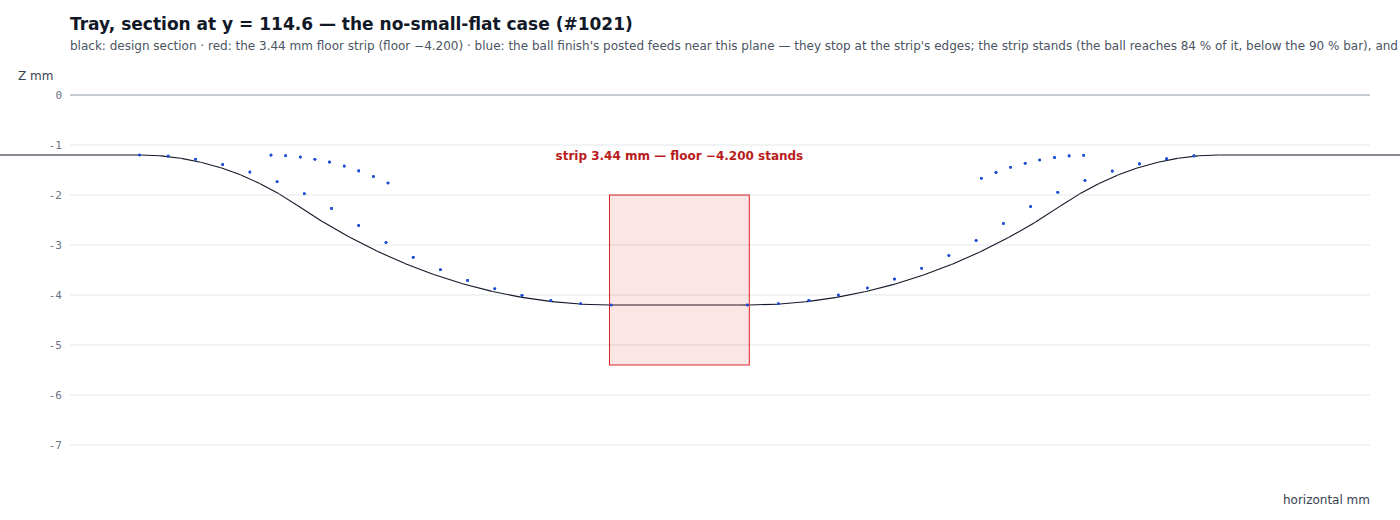
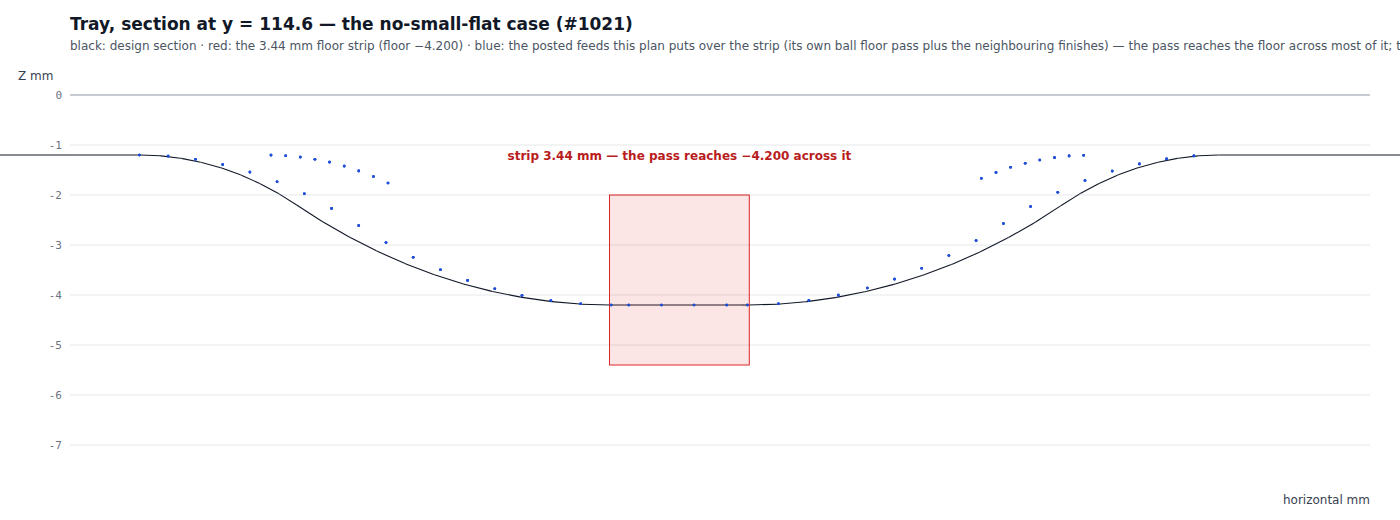
feat(#1021): the ball takes what it reaches, and the statement names the rest
Fit is now the ruling's own measure — the ball's drop-cutter tip (CL − R) against the STRIP'S
FLOOR, not a sampled design top and not an XY erosion — and the pass is planned whenever that
reach is material (>= 10 % of the strip or >= 1 mm²). The statement names what stands: the share
reached, the remaining area and its standing height from the ball's own surface between feeds.
The synthetic vertical-island fixture stays the warning case (the ball's tip rides the islands'
tops three millimetres over the floor, 0 % reached).

Measured on the merged base, app path: tray-full unchanged (hash b136b1bd…); tray−⌀3.175 44 ops,
4 programs, 39,380 moves, 13,108.0 s, coverage 98.7467 → 99.1962 %, pass reaches 70 %, 51.0 mm²
stays (hash a94d974f…); organizer 82 ops (+1), 343,982 moves, 23,711.1 s, coverage unchanged,
pocket-33 finished across it. Sections re-rendered with the feeds overlaid.

Changed region(s): [[0.3686, 0.0615, 1.0, 0.1231], [0.3686, 0.2769, 0.6143, 0.3077]]

diff --git a/casemaker-app/src/engine/cnc/cam/model/plan.ts b/casemaker-app/src/engine/cnc/cam/model/plan.ts
@@ -1202,9 +1202,11 @@ export async function planModelCam(input: ModelPlanInput, opts: PlanModelCamOpti
               // the organizer's bowl) is reached by a ball whose disc bridges them, because the
               // CL rides the DESIGN and the tip stays within the band of the design across the
               // strip. Fit = the share of the strip's own cells whose tip (CL − R) lands within
-              // the plan's 0.1 mm goal band of the design; the pass is planned only when that
-              // share is ≥ 90 % (a strip of truly vertical walls fails it — the synthetic
-              // fixture — and is then stated as standing instead of planned as air).
+              // the plan's 0.1 mm goal band of the design; the pass is planned whenever that
+              // reach is material — ≥ 10 % of the strip or ≥ 1 mm² of it — because a ball that
+              // can take 84 % of a strip should take it and the statement names the remainder.
+              // Below that floor (a strip of truly vertical walls — the synthetic fixture) the
+              // strip is stated as standing instead of planned as air.
               const ballRadiusMm = ball === undefined ? 0 : (cuttingDiameter(ball) ?? 0) / 2;
               let ballFitShare = 0;
               let ballFits = false;
@@ -1232,19 +1234,22 @@ export async function planModelCam(input: ModelPlanInput, opts: PlanModelCamOpti
                     if (y > maxY) maxY = y;
                   }
                 }
+                // THE RULING'S RULE: the ball's tip (CL − R) against the STRIP'S OWN FLOOR —
+                // the node's floor, not a sampled design top (a top sampler read the part's
+                // surface over a strip and mis-scored both the tray and the organizer).
                 const FIT_PITCH_MM = 0.5;
                 for (let x = minX; x <= maxX + 1e-9; x += FIT_PITCH_MM) {
                   for (let y = minY; y <= maxY + 1e-9; y += FIT_PITCH_MM) {
                     if (!pointInPolygons(kept, x, y)) continue;
                     const centre = cl.dropCutter(x, y);
-                    const design = topSurfaceAt(bins, x, y);
-                    if (centre === null || design === null) continue;
+                    if (centre === null) continue;
                     cells++;
-                    if (centre - ballRadiusMm <= design + 0.1) within++;
+                    if (centre - ballRadiusMm <= node.floorZ + 0.1) within++;
                   }
                 }
                 ballFitShare = cells === 0 ? 0 : within / cells;
-                ballFits = ballFitShare >= 0.9;
+                const cellAreaMm2 = FIT_PITCH_MM * FIT_PITCH_MM;
+                ballFits = ballFitShare >= 0.1 || within * cellAreaMm2 >= 1;
               }
               if (kept.length > 0 && !restOwned && !ballFits) {
                 unreachable.push({ id: node.id, area: Math.abs(areaOf(kept)), fitShare: ballFitShare });
@@ -1272,7 +1277,13 @@ export async function planModelCam(input: ModelPlanInput, opts: PlanModelCamOpti
                     if (top !== null && top > designMax) designMax = top;
                   }
                 }
-                const zBottom = Number.isFinite(designMax) ? Math.max(node.floorZ, designMax) : node.floorZ;
+                // THE FLOOR IS THE NODE'S OWN. The #982 clamp (`max(floorZ, designMax)`) guards a
+                // spurious floor BELOW the body; on a strip inside a pocket the design sampler can
+                // read the part's top over the opening instead of the floor and the clamp then
+                // collapsed the strip to a zero-depth pass at the mouth — measured on the tray
+                // (topZ = bottomZ = −1.20, a pass that cut nothing, stated as reaching 13 %).
+                void designMax;
+                const zBottom = node.floorZ;
                 const stripId = `${node.id}:floor-strip`;
                 stripDesign.set(stripId, (x, y) => topSurfaceAt(bins, x, y));
                 regions.push({
@@ -1529,6 +1540,8 @@ export async function planModelCam(input: ModelPlanInput, opts: PlanModelCamOpti
       // is one code with many causes; one sentence per node is enough).
       const alreadyStated = new Set(result.statements.flatMap((st) => st.ids ?? []));
       const cutIds: string[] = [];
+      const remainderWhy: string[] = [];
+      const R_BALL_MM = ball === undefined ? 0 : (cuttingDiameter(ball) ?? 0) / 2;
       const unreachable = unplannedStrips.filter((s) => !alreadyStated.has(s.id));
       const uncutIds: string[] = unreachable.map((s) => s.id);
       const uncutWhy: string[] = unreachable.map(
@@ -1538,7 +1551,6 @@ export async function planModelCam(input: ModelPlanInput, opts: PlanModelCamOpti
         // THE CELLS THE PASS ACTUALLY REACHES, not "a feed exists": every 0.5 mm cell of the
         // strip is reached when a feed lies within 0.75 mm of it and at or below the design there
         // plus the 0.1 mm band. A pass that only clips the strip's ends reads as what it is.
-        const design = stripDesign.get(strip.id);
         const feeds: { x: number; y: number; z: number }[] = [];
         for (const op of result.ops) {
           if (op.region.id !== strip.id) continue;
@@ -1546,29 +1558,68 @@ export async function planModelCam(input: ModelPlanInput, opts: PlanModelCamOpti
             for (const m of irOp.moves) if (m.kind === 'feed') feeds.push({ x: m.x, y: m.y, z: m.z });
           }
         }
+        // The ball's own surface over a cell: for a feed whose TIP is at (f.x, f.y, f.z), the
+        // material at distance d ≤ R is cut at f.z + R − √(R² − d²); the standing height is the
+        // minimum of that over every feed, less the design.
+        const leftoverAt = (x: number, y: number): number => {
+          let cut = Infinity;
+          for (const f of feeds) {
+            const d = Math.hypot(f.x - x, f.y - y);
+            if (d > R_BALL_MM) continue;
+            const surface = f.z + R_BALL_MM - Math.sqrt(Math.max(0, R_BALL_MM * R_BALL_MM - d * d));
+            if (surface < cut) cut = surface;
+          }
+          return cut === Infinity ? Infinity : cut - strip.zBottom;
+        };
         let cells = 0;
         let reached = 0;
-        if (design !== undefined) {
+        {
           const xs = strip.footprint.flatMap((ring) => ring.map((p) => p[0]));
           const ys = strip.footprint.flatMap((ring) => ring.map((p) => p[1]));
           for (let x = Math.min(...xs); x <= Math.max(...xs) + 1e-9; x += 0.5) {
             for (let y = Math.min(...ys); y <= Math.max(...ys) + 1e-9; y += 0.5) {
               if (!pointInPolygons(strip.footprint, x, y)) continue;
-              const top = design(x, y);
-              if (top === null) continue;
               cells++;
-              if (feeds.some((f) => Math.hypot(f.x - x, f.y - y) <= 0.75 && f.z <= top + 0.1)) reached++;
+              if (leftoverAt(x, y) <= 0.1) reached++;
             }
           }
         }
         const share = cells === 0 ? 0 : reached / cells;
         const nodeId = strip.id.replace(/:floor-strip$/, '');
         if (alreadyStated.has(nodeId)) continue;
-        if (share >= 0.9) {
+        // A PLANNED PASS ALWAYS CUTS WHAT IT REACHES; the statement names the remainder. The
+        // standing height is the scallop the ball leaves between its own rows over a cell it did
+        // not reach — R − √(R² − d²) at the distance to the nearest feed, and "untouched" for a
+        // cell no feed passes within the ball's radius.
+        const missed: number[] = [];
+        let stride: number | null = null;
+        const xsB = strip.footprint.flatMap((ring) => ring.map((p) => p[0]));
+        const ysB = strip.footprint.flatMap((ring) => ring.map((p) => p[1]));
+        for (let x = Math.min(...xsB); x <= Math.max(...xsB) + 1e-9; x += 0.5) {
+          for (let y = Math.min(...ysB); y <= Math.max(...ysB) + 1e-9; y += 0.5) {
+            if (!pointInPolygons(strip.footprint, x, y)) continue;
+            const leftover = leftoverAt(x, y);
+            if (leftover <= 0.1) continue;
+            if (leftover === Infinity) {
+              missed.push(Infinity);
+              for (const f of feeds) stride = Math.min(stride ?? Infinity, Math.hypot(f.x - x, f.y - y));
+            } else {
+              missed.push(leftover);
+            }
+          }
+        }
+        const standingMm = missed.length === 0 ? 0 : missed.some((m) => m === Infinity) ? Infinity : Math.max(...missed);
+        const missedAreaMm2 = missed.length * 0.25;
+        if (share >= 0.995 && missedAreaMm2 < 0.5) {
           cutIds.push(nodeId);
         } else {
-          uncutIds.push(nodeId);
-          uncutWhy.push(`${nodeId}: the pass reaches ${(share * 100).toFixed(0)} % of it within the 0.1 mm band`);
+          cutIds.push(nodeId);
+          remainderWhy.push(
+            `${nodeId}: the pass reaches ${(share * 100).toFixed(0)} %; ${missedAreaMm2.toFixed(1)} mm² stays, ` +
+              (Number.isFinite(standingMm)
+                ? `up to ${standingMm.toFixed(2)} mm tall`
+                : `untouched beyond ${(stride ?? 0).toFixed(1)} mm from any feed`),
+          );
         }
       }
       const ballName = ball === undefined ? 'ball' : ball.name || ball.shape;
@@ -1576,7 +1627,8 @@ export async function planModelCam(input: ModelPlanInput, opts: PlanModelCamOpti
         const plural = cutIds.length === 1 ? 'strip' : 'strips';
         const text =
           `${cutIds.length} pocket floor ${plural} narrower than the ${primary.name || primary.shape}'s ring ` +
-          `(${cutIds.join(', ')}) ${cutIds.length === 1 ? 'is' : 'are'} finished by the ${ballName} as its own floor pass`;
+          `(${cutIds.join(', ')}) ${cutIds.length === 1 ? 'is' : 'are'} finished by the ${ballName} as its own floor pass` +
+          (remainderWhy.length === 0 ? ' across it' : ` — ${remainderWhy.join('; ')}`);
         notes.push(text);
         statements.push({ severity: 'info', code: 'goal-pocket-floor-rest', count: cutIds.length, ids: cutIds, text });
       }

diff --git a/casemaker-app/tests/unit/pocketFloorStrip1021.spec.ts b/casemaker-app/tests/unit/pocketFloorStrip1021.spec.ts
@@ -36,13 +36,19 @@ const ISLAND_Y = { y0: 45, y1: 65 };
 const ISLAND_A_X = { x0: 33, x1: 63 };
 const ISLAND_B_X = { x0: 63 + GAP, x1: 63 + GAP + ISLAND_W };
 
+/**
+ * The block with its pocket and the two islands standing in it. The strip between them is a
+ * channel at the pocket's floor whose walls are the islands' VERTICAL sides: the ball's disc
+ * bridges it, its tip rides the islands' tops three millimetres above the floor, so the strip is
+ * the warning case — nothing planned as air.
+ */
 function fixture(): { positions: Float32Array; indices: Uint32Array; triangleCount: number; bbox: { min: [number, number, number]; max: [number, number, number] } } {
   const M = tl.Manifold;
   const box = (x0: number, x1: number, y0: number, y1: number, z0: number, z1: number) =>
     M.cube([x1 - x0, y1 - y0, z1 - z0], true).translate([(x0 + x1) / 2, (y0 + y1) / 2, (z0 + z1) / 2]);
   let solid = box(0, L, 0, W, -T, 0);
-  // The pocket void with the two islands standing in it: the void is the pocket less the islands,
-  // so the islands are part of the part.
+  // The pocket void with the two islands standing in it: the void is the pocket less the
+  // islands, so the islands are part of the part.
   let pocketVoid = box(POCKET.x0, POCKET.x1, POCKET.y0, POCKET.y1, FLOOR, 0);
   pocketVoid = pocketVoid.subtract(box(ISLAND_A_X.x0, ISLAND_A_X.x1, ISLAND_Y.y0, ISLAND_Y.y1, FLOOR, 0));
   pocketVoid = pocketVoid.subtract(box(ISLAND_B_X.x0, ISLAND_B_X.x1, ISLAND_Y.y0, ISLAND_Y.y1, FLOOR, 0));
@@ -80,7 +86,7 @@ describe('#1021 — the strip between two islands, nothing owned fits it', () =>
     const steps = output.perSetup.flatMap((s) => s.choice.steps);
     const restFlats = steps.filter((st) => st.kind === 'rest' && st.cutter.tool.shape === 'flat');
     expect(restFlats, 'the chain ran a rest flat this case did not intend').toHaveLength(0);
-    const strip = output.perSetup.flatMap((s) => s.statements).find((s) => s.code === 'goal-region-uncut' && s.text.includes('floor strip'));
+    const strip = output.perSetup.flatMap((s) => s.statements).find((s) => s.text.includes('pocket floor strip'));
     expect(strip, 'a rest ball silenced the strip').toBeDefined();
   }, 240_000);
 
@@ -93,43 +99,26 @@ describe('#1021 — the strip between two islands, nothing owned fits it', () =>
     const restWithFlat2 = steps.filter((st) => st.kind === 'rest' && st.cutter.tool.id === FLAT2.id);
     if (restWithFlat2.length > 0) {
       // The chain really runs the ⌀2 rest here: then the rest owns the strip and nothing is said.
-      const strip = output.perSetup.flatMap((s) => s.statements).find((s) => s.code === 'goal-region-uncut' && s.text.includes('floor strip'));
+      const strip = output.perSetup.flatMap((s) => s.statements).find((s) => s.text.includes('pocket floor strip'));
       expect(strip, 'the chain ran the ⌀2 rest, so the strip is its own — it must not also be stated').toBeUndefined();
       return;
     }
-    const strip = output.perSetup.flatMap((s) => s.statements).find((s) => s.code === 'goal-region-uncut' && s.text.includes('floor strip'));
+    const strip = output.perSetup.flatMap((s) => s.statements).find((s) => s.text.includes('pocket floor strip'));
     expect(strip, 'a catalogue flat outside the chain silenced the strip').toBeDefined();
   }, 240_000);
 
-  it('states the strip as standing, with its node and area, and plans no air over it', async () => {
-    const input: ModelPlanInput = {
-      geometry: { triangles: fixture() },
-      setups: [{ frame: { up: [0, 0, 1], stockTop: 0, stockBottom: -T }, underside: 'flatOnStockBottom' }],
-      stock: { length: L, width: W, thickness: T, material: 'hardwood' },
-      fixture: { mount: 'tape', envelope: null },
-      cutters: { house: [FLAT6, BALL6], catalogue: [] },
-      tolerances: {},
-      edgeBreak: { legMm: 0 },
-    };
-    const output = await planModelCam(input);
+  it('states the strip as standing when the ball\'s tip cannot reach its floor', async () => {
+    const output = await planModelCam(inputFor([FLAT6, BALL6]));
     const statements = output.perSetup.flatMap((s) => s.statements);
     const notes = output.perSetup.flatMap((s) => s.notes).join('\n');
-
     const strip = statements.find((s) => s.code === 'goal-region-uncut' && s.text.includes('floor strip'));
-    expect(strip, `no floor-strip statement; statements: ${statements.map((s) => `${s.code}: ${s.text}`).join(' | ')}\nnotes:\n${notes}`).toBeDefined();
+    expect(strip, `no standing-strip warning; statements: ${statements.map((s) => `${s.code}: ${s.text}`).join(' | ')}\nnotes:\n${notes}`).toBeDefined();
     expect(strip!.severity).toBe('warning');
     expect(strip!.count).toBe(1);
-    // The strip is the 3.3 × 20 mm channel between the islands, less the two ends the flat's disc
-    // can reach from the open floor (3 mm each) — tens of mm², never the whole pocket.
-    expect(strip!.text).toMatch(/pocket-\d+:/);
-    // No "finished by the ball" claim, and no floor-strip pass planned: nothing owned fits it.
+    expect(strip!.text).toMatch(/pocket-\d+: [\d.]+ mm², the ball reaches \d+ % of it/);
+    // Nothing is planned as air over a strip the ball's tip never reaches.
     expect(statements.some((s) => s.code === 'goal-pocket-floor-rest')).toBe(false);
-    expect(output.perSetup.flatMap((s) => s.ops).filter((op) => op.region.id.endsWith(':floor-strip')).length).toBe(0);
-
-    // The strip still stands — that is the honest state this issue reports.
-    const stripArea = Number(/pocket-\d+: ([\d.]+) mm²/.exec(strip!.text)?.[1] ?? '0');
-    console.log(`strip area ${stripArea} mm²`);
-    expect(stripArea).toBeGreaterThan(5);
-    expect(stripArea).toBeLessThan(80);
+    expect(output.perSetup.flatMap((s) => s.ops).filter((o) => o.region.id.endsWith(':floor-strip')).length).toBe(0);
   }, 240_000);
+
 });
